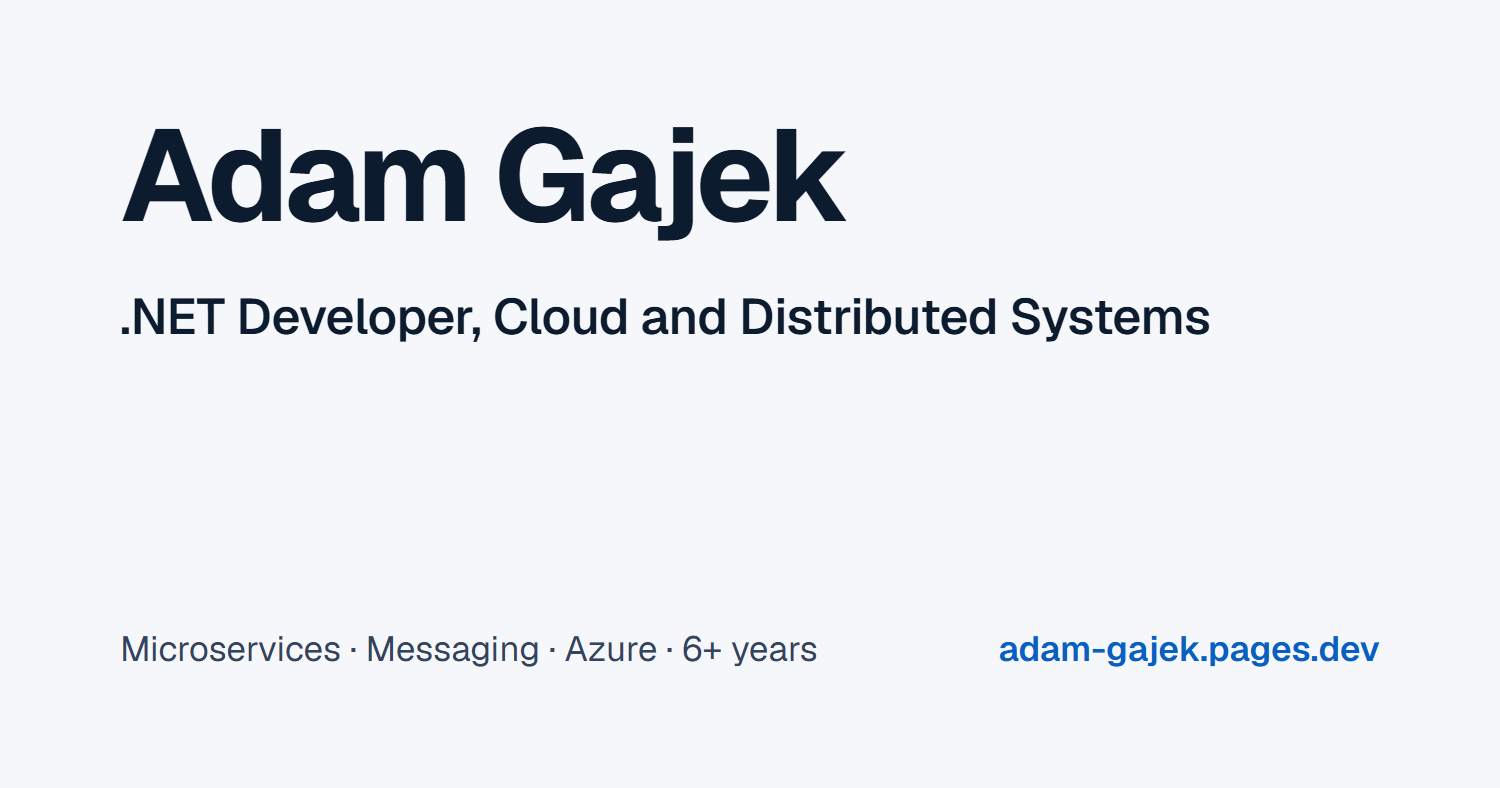
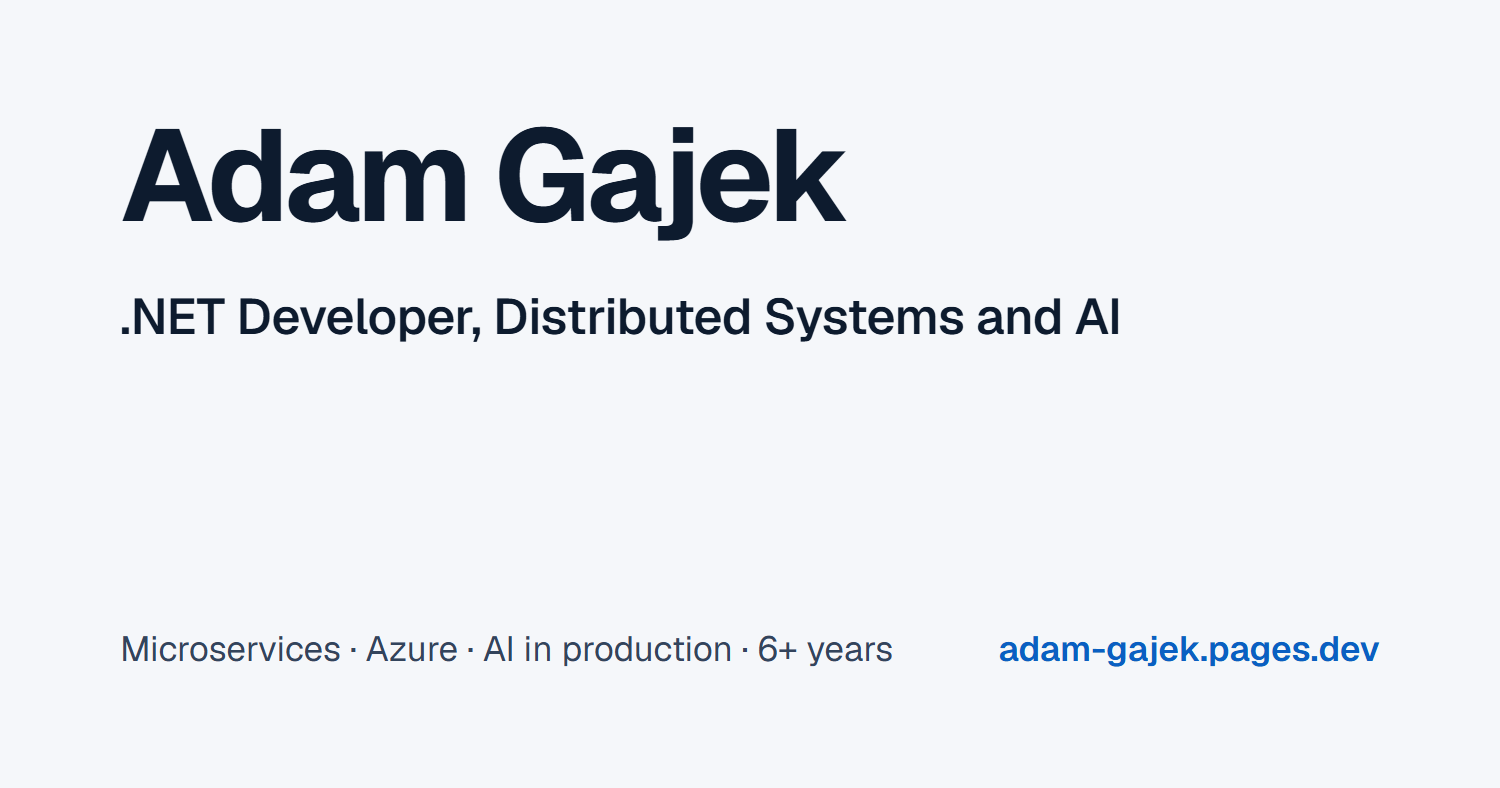
Position as .NET + distributed systems + AI; add Studio AI assistant; refresh screenshots and OG image

Changed region(s): [[0.3067, 0.3655, 0.828, 0.4264], [0.2453, 0.7919, 0.6133, 0.8528]]

diff --git a/src/i18n/content.ts b/src/i18n/content.ts
@@ -77,7 +77,7 @@ const SKILLS_EN = [
   { name: "Messaging", items: ["RabbitMQ", "Kafka"] },
   { name: "Cloud and delivery", items: ["Azure", "Docker", "Kubernetes", "CI/CD", "Azure DevOps"] },
   { name: "Architecture", items: ["Microservices", "Distributed systems", "Modular monolith"] },
-  { name: "AI development", items: ["Claude Code", "GitHub Copilot", "Codex"] },
+  { name: "AI", items: ["LLM integration", "Structured output", "Cloudflare Workers AI", "Claude Code", "GitHub Copilot", "Codex"] },
   { name: "Tools", items: ["Git", "GitHub", "GitLab", "Jira"] },
 ];
 
@@ -87,7 +87,7 @@ const SKILLS_PL = [
   { name: "Kolejki wiadomości", items: ["RabbitMQ", "Kafka"] },
   { name: "Chmura i wdrożenia", items: ["Azure", "Docker", "Kubernetes", "CI/CD", "Azure DevOps"] },
   { name: "Architektura", items: ["Mikroserwisy", "Systemy rozproszone", "Modularny monolit"] },
-  { name: "AI w programowaniu", items: ["Claude Code", "GitHub Copilot", "Codex"] },
+  { name: "AI", items: ["Integracja LLM", "Structured output", "Cloudflare Workers AI", "Claude Code", "GitHub Copilot", "Codex"] },
   { name: "Narzędzia", items: ["Git", "GitHub", "GitLab", "Jira"] },
 ];
 
@@ -105,9 +105,9 @@ export const GITHUB = "https://github.com/agajek777";
 export const content: Record<Locale, Content> = {
   en: {
     meta: {
-      title: "Adam Gajek, .NET Developer for Cloud and Distributed Systems",
+      title: "Adam Gajek, .NET Developer for Distributed Systems and AI",
       description:
-        "C#/.NET developer with 6+ years of commercial experience in microservices, messaging, Azure and high-traffic cloud systems. Based in Warsaw.",
+        "C#/.NET developer with 6+ years of commercial experience in microservices, messaging and Azure, now shipping AI features to production. Based in Warsaw.",
     },
     nav: { about: "About", experience: "Experience", projects: "Projects", skills: "Skills", contact: "Contact" },
     ui: {
@@ -121,9 +121,9 @@ export const content: Record<Locale, Content> = {
     },
     hero: {
       name: "Adam Gajek",
-      role: ".NET Developer, Cloud and Distributed Systems",
+      role: ".NET Developer, Distributed Systems and AI",
       pitch:
-        "I build .NET backends for distributed systems: microservices, messaging, data and the cloud infrastructure they run on.",
+        "I build .NET backends for distributed systems on Azure, and I put AI into production: my SaaS Studio runs an AI assistant I designed and built.",
       location: "Warsaw, Poland",
     },
     about: {
@@ -131,7 +131,7 @@ export const content: Record<Locale, Content> = {
       paragraphs: [
         "For more than six years I have built commercial software in very different settings: a microservice platform for industrial automation, a cloud system serving over 14.5 million views a month, distributed services for a North American logistics company, and the C++ billing system where I started.",
         "Most of my work sits behind the API. Service boundaries, message flows over RabbitMQ and Kafka, relational and document storage, caching, containers and the pipelines that ship them. I aim for systems that are easy to change and uneventful to run.",
-        "I use Claude Code, GitHub Copilot and Codex every day and hold Anthropic’s certifications in Claude Code and the Claude API. The tools make me faster; design decisions and code review stay with me. After hours I build Studio, my own SaaS for dance schools, from the database to production.",
+        "AI is the area I’m growing in fastest. In Studio, my own SaaS for dance schools, I built an AI assistant from scratch: a .NET endpoint over an LLM, grounded in the product’s documentation, with structured output, guardrails and integration tests. I use Claude Code, GitHub Copilot and Codex every day and hold Anthropic’s certifications in Claude Code and the Claude API. The tools make me faster; design decisions and code review stay with me.",
       ],
     },
     experience: {
@@ -195,13 +195,13 @@ export const content: Record<Locale, Content> = {
         {
           name: "Studio",
           summary:
-            "Free scheduling and booking software for dance schools and independent instructors. Schools publish a timetable, sell passes online and take bookings from one link.",
+            "Free scheduling and booking software for dance schools and independent instructors, with a built-in AI assistant. Schools publish a timetable, sell passes online and take bookings from one link.",
           status: "Live, built and run by me since 2026",
           url: "https://studio-app.click/en/",
           urlLabel: "Open studio-app.click",
           image: {
             src: "/projects/studio-en.webp",
-            alt: "Studio landing page: “Your dance school. All in one place.” next to a sample weekly class schedule.",
+            alt: "Studio landing page: “Your dance school. All in one place.”, a question field for the AI assistant with suggested questions, and a sample weekly class schedule.",
             width: 1800,
             height: 1025,
           },
@@ -214,6 +214,7 @@ export const content: Record<Locale, Content> = {
               "Partner classes with lead and follow limits, and booking with your own partner.",
               "Passes paid by card or BLIK through Stripe, with money going straight to the school.",
               "Team roles, attendance, refunds, audit log and CSV export. Available in Polish, English, German and French.",
+              "AI assistant on the website and in the app: answers questions about Studio and walks school staff through setup, with links straight to the right screen.",
             ],
           },
           engineering: {
@@ -222,12 +223,14 @@ export const content: Record<Locale, Content> = {
               "ASP.NET Core 10 API with ProblemDetails, rate limiting and OpenAPI; the TypeScript client types are generated from the contract.",
               "Multi-tenant PostgreSQL: row-level security keeps each school’s data separate, with EF Core, Npgsql and versioned SQL migrations.",
               "Transactional outbox feeding a durable email queue with retries and send limits.",
+              "AI assistant: ASP.NET Core endpoint over Cloudflare Workers AI (Gemma). Answers are grounded in the product docs and returned as schema-validated JSON; links come only from a role-filtered allowlist, never from the model.",
+              "Assistant guardrails: no access to school data, no stored conversations, rate limits per IP and per user, a daily budget with a graceful fallback, and 11 integration tests.",
               "Supabase Auth with Google sign-in, Stripe Connect for payments, Resend for email.",
               "React 19, TypeScript, Vite and TanStack Query on the front end.",
               "Dockerised API on Render, front end on Cloudflare Pages, GitHub Actions CI with integration tests and a daily health check.",
             ],
           },
-          stack: [".NET 10", "ASP.NET Core", "EF Core", "PostgreSQL", "Supabase", "React", "TypeScript", "Stripe Connect", "Docker", "Cloudflare Pages", "GitHub Actions"],
+          stack: [".NET 10", "ASP.NET Core", "EF Core", "PostgreSQL", "Workers AI", "Supabase", "React", "TypeScript", "Stripe Connect", "Docker", "Cloudflare Pages", "GitHub Actions"],
         },
       ],
     },
@@ -266,9 +269,9 @@ export const content: Record<Locale, Content> = {
 
   pl: {
     meta: {
-      title: "Adam Gajek – .NET Developer, chmura i systemy rozproszone",
+      title: "Adam Gajek – .NET Developer, systemy rozproszone i AI",
       description:
-        "Programista C#/.NET z ponad sześcioletnim doświadczeniem komercyjnym. Mikroserwisy, kolejki wiadomości, Azure i systemy chmurowe o dużym ruchu. Warszawa.",
+        "Programista C#/.NET z ponad sześcioletnim doświadczeniem komercyjnym w mikroserwisach, kolejkach wiadomości i Azure, który wdraża funkcje AI na produkcję. Warszawa.",
     },
     nav: { about: "O mnie", experience: "Doświadczenie", projects: "Projekty", skills: "Umiejętności", contact: "Kontakt" },
     ui: {
@@ -282,9 +285,9 @@ export const content: Record<Locale, Content> = {
     },
     hero: {
       name: "Adam Gajek",
-      role: ".NET Developer – chmura i systemy rozproszone",
+      role: ".NET Developer – systemy rozproszone i AI",
       pitch:
-        "Tworzę backend w .NET dla systemów rozproszonych: mikroserwisy, komunikację przez kolejki, warstwę danych i infrastrukturę chmurową, na której to wszystko działa.",
+        "Tworzę backend w .NET dla systemów rozproszonych w Azure i wdrażam AI na produkcję: w moim SaaS-ie Studio działa asystent AI, którego zaprojektowałem i zbudowałem.",
       location: "Warszawa",
     },
     about: {
@@ -292,7 +295,7 @@ export const content: Record<Locale, Content> = {
       paragraphs: [
         "Od ponad sześciu lat zawodowo tworzę oprogramowanie w bardzo różnych projektach. Rozwijam platformę mikroserwisową dla automatyki przemysłowej, pracowałem też nad systemem chmurowym z ponad 14,5 mln wyświetleń miesięcznie i nad rozproszonymi usługami dla północnoamerykańskiej firmy logistycznej. Zaczynałem od systemu bilingowego w C++.",
         "Zajmuję się głównie tym, co dzieje się za API: granicami serwisów, przepływem wiadomości przez RabbitMQ i Kafkę, bazami relacyjnymi i dokumentowymi, cache’em, kontenerami oraz pipeline’ami, które to wszystko wdrażają. Stawiam na systemy, które łatwo rozwijać i które działają na produkcji bez niespodzianek.",
-        "Na co dzień pracuję z Claude Code, GitHub Copilotem i Codexem, mam też certyfikaty Anthropic z Claude Code i Claude API. Te narzędzia przyspieszają moją pracę, ale decyzje projektowe i code review należą do mnie. Po godzinach rozwijam Studio, własny SaaS dla szkół tańca, od bazy danych aż po produkcję.",
+        "AI to obszar, w którym rozwijam się najszybciej. W Studio, moim własnym SaaS-ie dla szkół tańca, zbudowałem od zera asystenta AI: endpoint w .NET nad modelem językowym, oparty na dokumentacji produktu, ze ściśle określonym formatem odpowiedzi, zabezpieczeniami i testami integracyjnymi. Na co dzień pracuję z Claude Code, GitHub Copilotem i Codexem, mam też certyfikaty Anthropic z Claude Code i Claude API. Te narzędzia przyspieszają moją pracę, ale decyzje projektowe i code review należą do mnie.",
       ],
     },
     experience: {
@@ -356,13 +359,13 @@ export const content: Record<Locale, Content> = {
         {
           name: "Studio",
           summary:
-            "Bezpłatna aplikacja do grafiku i zapisów dla szkół tańca i samodzielnych instruktorów. Szkoła publikuje grafik, sprzedaje karnety online i przyjmuje zapisy przez jeden link.",
+            "Bezpłatna aplikacja do grafiku i zapisów dla szkół tańca i samodzielnych instruktorów, z wbudowanym asystentem AI. Szkoła publikuje grafik, sprzedaje karnety online i przyjmuje zapisy przez jeden link.",
           status: "Działa na produkcji, rozwijam go od 2026 roku",
           url: "https://studio-app.click/",
           urlLabel: "Otwórz studio-app.click",
           image: {
             src: "/projects/studio-pl.webp",
-            alt: "Strona główna Studio: „Zarządzaj szkołą tańca. W jednym miejscu.” obok przykładowego grafiku zajęć.",
+            alt: "Strona główna Studio: „Zarządzaj szkołą tańca. W jednym miejscu.”, pole pytania do asystenta AI z podpowiedziami i przykładowy grafik zajęć.",
             width: 1800,
             height: 1025,
           },
@@ -375,6 +378,7 @@ export const content: Record<Locale, Content> = {
               "Zajęcia w parach z limitami ról prowadzących i prowadzonych oraz możliwością zapisu z własnym partnerem.",
               "Karnety płatne kartą lub BLIK-iem przez Stripe; pieniądze trafiają bezpośrednio do szkoły.",
               "Role w zespole, lista obecności, zwroty, dziennik zdarzeń i eksport do CSV. Interfejs w czterech językach: polskim, angielskim, niemieckim i francuskim.",
+              "Asystent AI na stronie i w aplikacji: odpowiada na pytania o Studio i prowadzi zespół szkoły przez konfigurację, z linkami prosto do właściwego ekranu.",
             ],
           },
           engineering: {
@@ -383,12 +387,14 @@ export const content: Record<Locale, Content> = {
               "API w ASP.NET Core 10 z ProblemDetails, rate limitingiem i OpenAPI; typy TypeScript dla frontendu są generowane z kontraktu.",
               "PostgreSQL w modelu multi-tenant: row-level security oddziela dane poszczególnych szkół. EF Core, Npgsql i wersjonowane migracje SQL.",
               "Wzorzec transactional outbox zasila trwałą kolejkę e-maili z ponowieniami i limitami wysyłki.",
+              "Asystent AI: endpoint w ASP.NET Core nad Cloudflare Workers AI (Gemma). Odpowiedzi opierają się na dokumentacji produktu i wracają jako JSON zgodny ze schematem; linki pochodzą wyłącznie z listy dozwolonych miejsc filtrowanej rolą, nigdy z modelu.",
+              "Zabezpieczenia asystenta: brak dostępu do danych szkoły, brak zapisu rozmów, limity zapytań na IP i na użytkownika, dzienny budżet z odpowiedzią awaryjną oraz 11 testów integracyjnych.",
               "Logowanie przez Google w Supabase Auth, płatności przez Stripe Connect, wysyłka e-maili przez Resend.",
               "Frontend: React 19, TypeScript, Vite i TanStack Query.",
               "API w kontenerze Docker na Render, frontend na Cloudflare Pages, CI w GitHub Actions z testami integracyjnymi i codziennym sprawdzaniem działania usług.",
             ],
           },
-          stack: [".NET 10", "ASP.NET Core", "EF Core", "PostgreSQL", "Supabase", "React", "TypeScript", "Stripe Connect", "Docker", "Cloudflare Pages", "GitHub Actions"],
+          stack: [".NET 10", "ASP.NET Core", "EF Core", "PostgreSQL", "Workers AI", "Supabase", "React", "TypeScript", "Stripe Connect", "Docker", "Cloudflare Pages", "GitHub Actions"],
         },
       ],
     },

diff --git a/src/styles/global.css b/src/styles/global.css
@@ -215,6 +215,7 @@ main {
 }
 
 .tagline {
+  text-wrap: balance;
   margin-top: 0.875rem;
   font-size: 1.125rem;
   font-weight: 550;
